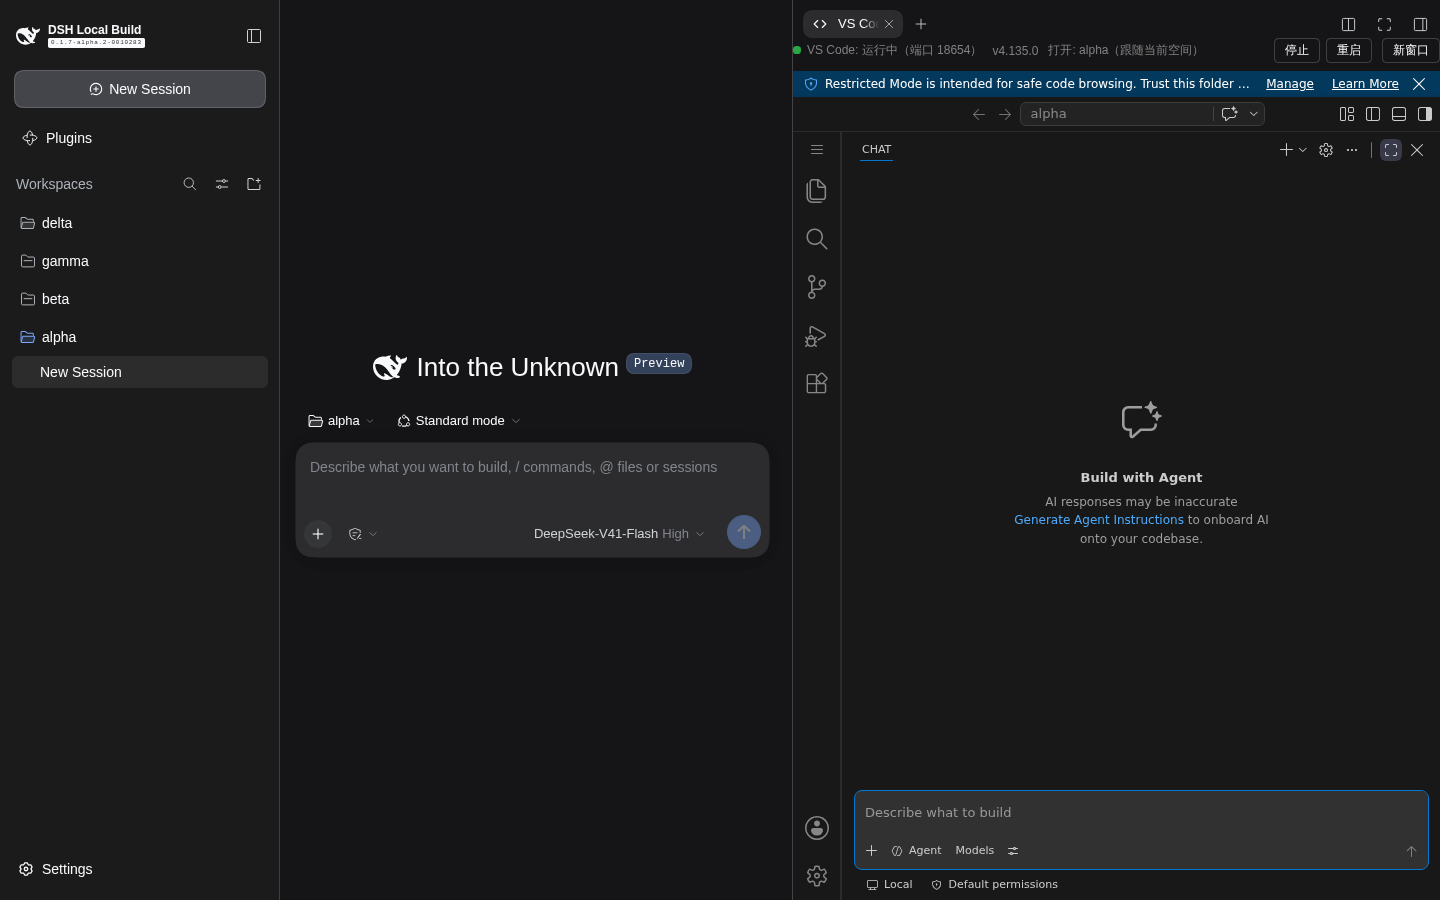
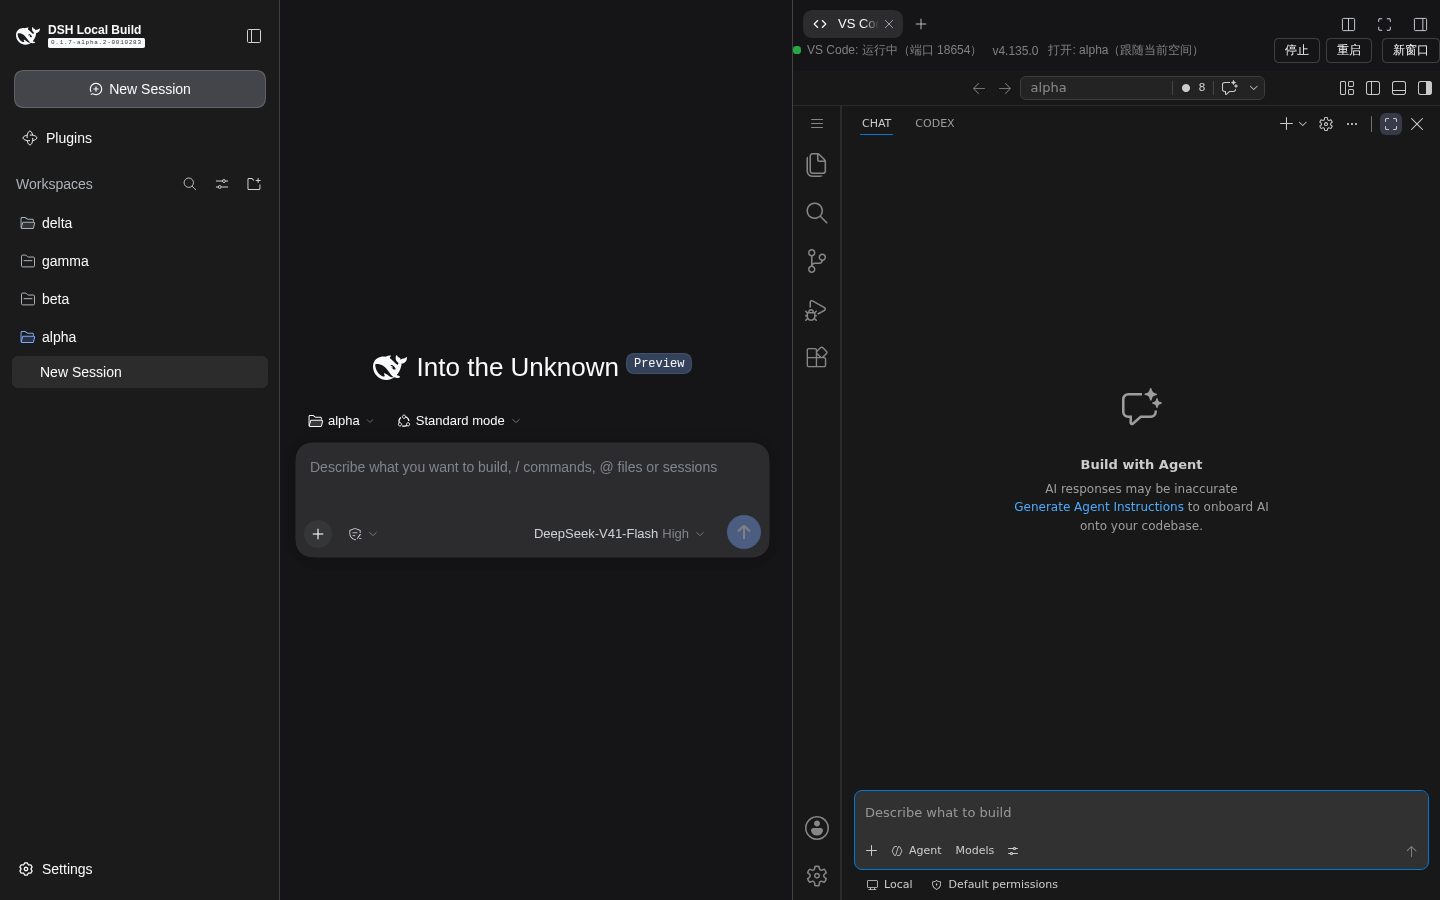
feat: 信任打开的目录（禁用 Restricted Mode，保证 Codex 等扩展可用）
- 宿主：trustWorkspace 配置（默认 true）；/dsh-vscode/layout 键组泛化——
  trustWorkspace!==false 时恒写 security.workspace.trust.enabled=false（键名已在
  4.135.0 安装树核实），focus 三键照旧随 {focus} 写/删；幂等+原子写不变
- 客户端：pushLayout 差值扩展为 focus+trust；设置页新增「信任打开的目录」勾选框
- e2e：新增 V1 信任断言（无 Restricted Mode 横幅 + 四键落盘）与 V4 trust 键保留
  断言，全量回归 21/21 通过；报告 demo/e2e-report-0.1.22.md

diff --git a/lib/client-registry.js b/lib/client-registry.js
@@ -302,13 +302,16 @@ window.__ModuleLoader__.load({
 			}
 
 			// —— 专注布局（0.1.21）：新开的 VS Code 默认只显示 Codex（副边栏最大化） ——
+			// —— 信任目录（0.1.22）：security.workspace.trust.enabled=false，禁用 Restricted Mode，
+			//     否则 Codex 等扩展在未信任目录下被禁用（信任开关取宿主 config.trustWorkspace）。
 			// 生效时机与主题一致：workbench 只在启动时读一次 user settings，因此落盘先于
 			// iframe 启动（bootInst 前置推送）；开关变化（设置页保存 / 状态轮询差值，含多页签
 			// 他端改动）对池内全部已加载实例收敛重载。注意：收敛只做重载、不追求把已打开
 			// 实例拉回专注——workspace 布局由 VS Code 自己按 workspace 持久化并接管
 			// （defaultVisibility 仅首次打开生效；用户解除最大化后保持其布局，不被强拉）。
 			let focusLayoutOn = true;
-			let lastFocusApplied = null;
+			let trustOn = true;
+			let lastPushedLayout = null;
 			function convergeLayout() {
 				for (const inst of Array.from(pool.values())) {
 					if (!inst.loaded || !inst.base) continue;
@@ -319,10 +322,10 @@ window.__ModuleLoader__.load({
 			const pushLayout = (opts) => {
 				const force = !!(opts && opts.force);
 				const booting = !!(opts && opts.booting);
-				const focus = focusLayoutOn;
-				if (!force && focus === lastFocusApplied) return null;
-				const p = api('/dsh-vscode/layout', { method: 'POST', body: JSON.stringify({ focus: focus }) }).then((r) => {
-					lastFocusApplied = focus;
+				const want = { focus: focusLayoutOn, trust: trustOn };
+				if (!force && lastPushedLayout && lastPushedLayout.focus === want.focus && lastPushedLayout.trust === want.trust) return null;
+				const p = api('/dsh-vscode/layout', { method: 'POST', body: JSON.stringify({ focus: want.focus }) }).then((r) => {
+					lastPushedLayout = want;
 					if (r && r.changed && !booting) convergeLayout();
 					return r;
 				}, () => null);
@@ -553,9 +556,10 @@ window.__ModuleLoader__.load({
 			const setValue = (v) => {
 				if (v && v.config) {
 					themeFollowOn = v.config.themeFollow !== false;
-					// 专注布局开关差值：配置变化（本页设置页或多页签他端）即推送，changed 才收敛重载
+					// 专注布局 / 信任目录 开关差值：配置变化（本页设置页或多页签他端）即推送，changed 才收敛重载
 					const fl = v.config.focusLayout !== false;
-					if (fl !== focusLayoutOn) { focusLayoutOn = fl; pushLayout(); }
+					const tw = v.config.trustWorkspace !== false;
+					if (fl !== focusLayoutOn || tw !== trustOn) { focusLayoutOn = fl; trustOn = tw; pushLayout(); }
 				}
 				if (v !== value) { value = v; subs.forEach((l) => l()); }
 			};
@@ -823,6 +827,7 @@ window.__ModuleLoader__.load({
 						autoStart: !!draft.autoStart,
 						themeFollow: draft.themeFollow !== false,
 						focusLayout: draft.focusLayout !== false,
+						trustWorkspace: draft.trustWorkspace !== false,
 						extraArgs: String(draft.extraArgsText || '').split(/\s+/).filter((x) => x.length > 0),
 					}).then(() => { setSaved('已保存'); pushTheme(); pushLayout(); return null; }).catch(() => {});
 				};
@@ -857,8 +862,9 @@ window.__ModuleLoader__.load({
 				field('会话打开时自动启动', React.createElement('input', { type: 'checkbox', checked: !!draft.autoStart, onChange: (e) => upd('autoStart', e.target.checked) })),
 				field('主题跟随 DSH', React.createElement('input', { type: 'checkbox', checked: draft.themeFollow !== false, onChange: (e) => upd('themeFollow', e.target.checked) })),
 				field('专注布局（新开的 VS Code 默认只显示 Codex）', React.createElement('input', { type: 'checkbox', checked: draft.focusLayout !== false, onChange: (e) => upd('focusLayout', e.target.checked) })),
+				field('信任打开的目录（关闭 Restricted Mode）', React.createElement('input', { type: 'checkbox', checked: draft.trustWorkspace !== false, onChange: (e) => upd('trustWorkspace', e.target.checked) })),
 				field('附加参数（空格分隔）', React.createElement('input', { className: 'dshvs-input', value: draft.extraArgsText || '', placeholder: '例如 --disable-get-started-banner', onChange: (e) => upd('extraArgsText', e.target.value) })),
-					React.createElement('div', { className: 'dshvs-kv' }, '「打开目录跟随当前空间」开启时，VS Code 打开当前会话所在空间（会话 cwd）的目录；关闭或会话无目录时使用「工作区路径」。「实例池上限」按 workspace 缓存 VS Code 实例（默认 2）：同空间会话互切不重载，跨空间切换秒切；池满时弹窗选择要踢出的实例。「专注布局」开启时新打开的 VS Code 默认只显示右侧 Codex（主边栏/面板/编辑器区收起，活动栏保留），状态栏与欢迎页隐藏；在 VS Code 内解除最大化/打开边栏即恢复完整布局且不被强拉，再点副边栏的「最大化」按钮可回到专注。改端口/目录/来源后需重启 code-server 生效；配置持久化在工作区 .dsh/vscode-bridge/config.json。'),
+					React.createElement('div', { className: 'dshvs-kv' }, '「打开目录跟随当前空间」开启时，VS Code 打开当前会话所在空间（会话 cwd）的目录；关闭或会话无目录时使用「工作区路径」。「实例池上限」按 workspace 缓存 VS Code 实例（默认 2）：同空间会话互切不重载，跨空间切换秒切；池满时弹窗选择要踢出的实例。「专注布局」开启时新打开的 VS Code 默认只显示右侧 Codex（主边栏/面板/编辑器区收起，活动栏保留），状态栏与欢迎页隐藏；在 VS Code 内解除最大化/打开边栏即恢复完整布局且不被强拉，再点副边栏的「最大化」按钮可回到专注。「信任打开的目录」写入 security.workspace.trust.enabled=false 禁用 Restricted Mode（否则 Codex 等扩展在未信任目录下被禁用）；桥只会打开本机 DSH 空间目录。改端口/目录/来源后需重启 code-server 生效；配置持久化在工作区 .dsh/vscode-bridge/config.json。'),
 					(status && (status.error || status.lastError)) ? React.createElement('pre', { className: 'dshvs-diag' }, String(status.error || status.lastError)) : null,
 				);
 			}

diff --git a/lib/client.js b/lib/client.js
@@ -302,13 +302,16 @@ window.__ModuleLoader__.load({
 			}
 
 			// —— 专注布局（0.1.21）：新开的 VS Code 默认只显示 Codex（副边栏最大化） ——
+			// —— 信任目录（0.1.22）：security.workspace.trust.enabled=false，禁用 Restricted Mode，
+			//     否则 Codex 等扩展在未信任目录下被禁用（信任开关取宿主 config.trustWorkspace）。
 			// 生效时机与主题一致：workbench 只在启动时读一次 user settings，因此落盘先于
 			// iframe 启动（bootInst 前置推送）；开关变化（设置页保存 / 状态轮询差值，含多页签
 			// 他端改动）对池内全部已加载实例收敛重载。注意：收敛只做重载、不追求把已打开
 			// 实例拉回专注——workspace 布局由 VS Code 自己按 workspace 持久化并接管
 			// （defaultVisibility 仅首次打开生效；用户解除最大化后保持其布局，不被强拉）。
 			let focusLayoutOn = true;
-			let lastFocusApplied = null;
+			let trustOn = true;
+			let lastPushedLayout = null;
 			function convergeLayout() {
 				for (const inst of Array.from(pool.values())) {
 					if (!inst.loaded || !inst.base) continue;
@@ -319,10 +322,10 @@ window.__ModuleLoader__.load({
 			const pushLayout = (opts) => {
 				const force = !!(opts && opts.force);
 				const booting = !!(opts && opts.booting);
-				const focus = focusLayoutOn;
-				if (!force && focus === lastFocusApplied) return null;
-				const p = api('/dsh-vscode/layout', { method: 'POST', body: JSON.stringify({ focus: focus }) }).then((r) => {
-					lastFocusApplied = focus;
+				const want = { focus: focusLayoutOn, trust: trustOn };
+				if (!force && lastPushedLayout && lastPushedLayout.focus === want.focus && lastPushedLayout.trust === want.trust) return null;
+				const p = api('/dsh-vscode/layout', { method: 'POST', body: JSON.stringify({ focus: want.focus }) }).then((r) => {
+					lastPushedLayout = want;
 					if (r && r.changed && !booting) convergeLayout();
 					return r;
 				}, () => null);
@@ -553,9 +556,10 @@ window.__ModuleLoader__.load({
 			const setValue = (v) => {
 				if (v && v.config) {
 					themeFollowOn = v.config.themeFollow !== false;
-					// 专注布局开关差值：配置变化（本页设置页或多页签他端）即推送，changed 才收敛重载
+					// 专注布局 / 信任目录 开关差值：配置变化（本页设置页或多页签他端）即推送，changed 才收敛重载
 					const fl = v.config.focusLayout !== false;
-					if (fl !== focusLayoutOn) { focusLayoutOn = fl; pushLayout(); }
+					const tw = v.config.trustWorkspace !== false;
+					if (fl !== focusLayoutOn || tw !== trustOn) { focusLayoutOn = fl; trustOn = tw; pushLayout(); }
 				}
 				if (v !== value) { value = v; subs.forEach((l) => l()); }
 			};
@@ -823,6 +827,7 @@ window.__ModuleLoader__.load({
 						autoStart: !!draft.autoStart,
 						themeFollow: draft.themeFollow !== false,
 						focusLayout: draft.focusLayout !== false,
+						trustWorkspace: draft.trustWorkspace !== false,
 						extraArgs: String(draft.extraArgsText || '').split(/\s+/).filter((x) => x.length > 0),
 					}).then(() => { setSaved('已保存'); pushTheme(); pushLayout(); return null; }).catch(() => {});
 				};
@@ -857,8 +862,9 @@ window.__ModuleLoader__.load({
 				field('会话打开时自动启动', React.createElement('input', { type: 'checkbox', checked: !!draft.autoStart, onChange: (e) => upd('autoStart', e.target.checked) })),
 				field('主题跟随 DSH', React.createElement('input', { type: 'checkbox', checked: draft.themeFollow !== false, onChange: (e) => upd('themeFollow', e.target.checked) })),
 				field('专注布局（新开的 VS Code 默认只显示 Codex）', React.createElement('input', { type: 'checkbox', checked: draft.focusLayout !== false, onChange: (e) => upd('focusLayout', e.target.checked) })),
+				field('信任打开的目录（关闭 Restricted Mode）', React.createElement('input', { type: 'checkbox', checked: draft.trustWorkspace !== false, onChange: (e) => upd('trustWorkspace', e.target.checked) })),
 				field('附加参数（空格分隔）', React.createElement('input', { className: 'dshvs-input', value: draft.extraArgsText || '', placeholder: '例如 --disable-get-started-banner', onChange: (e) => upd('extraArgsText', e.target.value) })),
-					React.createElement('div', { className: 'dshvs-kv' }, '「打开目录跟随当前空间」开启时，VS Code 打开当前会话所在空间（会话 cwd）的目录；关闭或会话无目录时使用「工作区路径」。「实例池上限」按 workspace 缓存 VS Code 实例（默认 2）：同空间会话互切不重载，跨空间切换秒切；池满时弹窗选择要踢出的实例。「专注布局」开启时新打开的 VS Code 默认只显示右侧 Codex（主边栏/面板/编辑器区收起，活动栏保留），状态栏与欢迎页隐藏；在 VS Code 内解除最大化/打开边栏即恢复完整布局且不被强拉，再点副边栏的「最大化」按钮可回到专注。改端口/目录/来源后需重启 code-server 生效；配置持久化在工作区 .dsh/vscode-bridge/config.json。'),
+					React.createElement('div', { className: 'dshvs-kv' }, '「打开目录跟随当前空间」开启时，VS Code 打开当前会话所在空间（会话 cwd）的目录；关闭或会话无目录时使用「工作区路径」。「实例池上限」按 workspace 缓存 VS Code 实例（默认 2）：同空间会话互切不重载，跨空间切换秒切；池满时弹窗选择要踢出的实例。「专注布局」开启时新打开的 VS Code 默认只显示右侧 Codex（主边栏/面板/编辑器区收起，活动栏保留），状态栏与欢迎页隐藏；在 VS Code 内解除最大化/打开边栏即恢复完整布局且不被强拉，再点副边栏的「最大化」按钮可回到专注。「信任打开的目录」写入 security.workspace.trust.enabled=false 禁用 Restricted Mode（否则 Codex 等扩展在未信任目录下被禁用）；桥只会打开本机 DSH 空间目录。改端口/目录/来源后需重启 code-server 生效；配置持久化在工作区 .dsh/vscode-bridge/config.json。'),
 					(status && (status.error || status.lastError)) ? React.createElement('pre', { className: 'dshvs-diag' }, String(status.error || status.lastError)) : null,
 				);
 			}

diff --git a/lib/index.js b/lib/index.js
@@ -45,6 +45,10 @@ export function apply(ctx) {
     // 进入——主边栏/面板/编辑器区自动收起，只显示右侧 Codex；状态栏与欢迎页一并隐藏，活动栏保留。
     // 已打开过的 workspace 由 VS Code 自己的持久化布局接管（用户解除最大化后保持其布局，不被强拉）。
     focusLayout: true,
+    // 信任打开的目录（0.1.22）：写入 security.workspace.trust.enabled=false，禁用 Restricted Mode
+    // （工作区信任横幅），否则 Codex 等扩展在未信任目录下被禁用。桥只会打开本机 DSH 空间的目录，
+    // 属于用户自选的可信路径；关闭此开关则移除该键、恢复 VS Code 默认信任行为。
+    trustWorkspace: true,
     // 打开目录是否跟随「当前会话所在 DSH 空间」的目录（client 半区上报会话 cwd）。
     // 关闭后固定使用 workspacePath。
     workspaceFollow: true,
@@ -482,6 +486,7 @@ export function apply(ctx) {
     if (typeof next.customBinaryPath !== 'string') next.customBinaryPath = ''
     if (typeof next.themeFollow !== 'boolean') next.themeFollow = true
     if (typeof next.focusLayout !== 'boolean') next.focusLayout = true
+    if (typeof next.trustWorkspace !== 'boolean') next.trustWorkspace = true
     if (typeof next.workspaceFollow !== 'boolean') next.workspaceFollow = true
     // 实例池上限：UI 数字字段用夹取而非抛错（避免保存被拒）；非法值回默认 2，范围 1-8。
     const ips = Math.floor(Number(next.instancePoolSize))
@@ -597,13 +602,17 @@ export function apply(ctx) {
       if (url === '/dsh-vscode/layout' && req.method === 'POST') {
         const body = await readBody(req)
         readConfig()
-        // focus 必须显式给布尔：缺参视为非法请求（返回 400），防止误清三键
+        // focus 必须显式给布尔：缺参视为非法请求（返回 400），防止误清三键。
+        // 信任开关取宿主 config.trustWorkspace（单一事实来源），客户端无需上报。
         const focus = body ? body.focus : undefined
         if (typeof focus !== 'boolean') return jsonOf(res, 400, { error: 'focus 必须是 boolean' })
-        // 专注布局（0.1.21）：把三键写入/移除出 code-server 的 user settings.json。
+        // 专注布局（0.1.21）+ 信任目录（0.1.22）：把键组写入/移除出 code-server 的 user settings.json。
         // 与主题同款约束：workbench 只在启动时读一次 user settings，落盘先于 iframe 启动；
         // 幂等比较（无差异不写盘），返回 changed 供 client 决定是否收敛重载。
-        // 三键语义（VS Code 1.135）：
+        // 键组语义（VS Code 1.135，均已在安装树 out/ 中核实存在）：
+        //   security.workspace.trust.enabled=false —— trustWorkspace!==false 时恒写：禁用
+        //     Restricted Mode（信任横幅），否则 Codex 等扩展在未信任目录下被禁用；
+        //     trustWorkspace=false 时移除、恢复 VS Code 默认信任行为；
         //   secondarySideBar.defaultVisibility=maximized —— 仅 workspace 首次打开时生效，
         //     应用后 auxiliaryBar.wasLastMaximized 等布局状态按 workspace 持久化：
         //     新开的 folder 进专注；用户解除最大化后保持其布局，不被强拉；
@@ -616,13 +625,18 @@ export function apply(ctx) {
           'workbench.statusBar.visible': false,
           'workbench.startupEditor': 'none',
         }
+        const trust = config.trustWorkspace !== false
+        const desired = {}
+        if (trust) desired['security.workspace.trust.enabled'] = false
+        if (focus) for (const k of Object.keys(focusKeys)) desired[k] = focusKeys[k]
+        const candidateKeys = Object.keys(Object.assign({}, focusKeys, { 'security.workspace.trust.enabled': false }))
         const settingsPath = config.dataDir + '/user-data/User/settings.json'
         let cur = {}
         try { cur = JSON.parse(readFileSync(settingsPath, 'utf8')) } catch (e) { cur = {} }
         let changed = false
-        for (const k of Object.keys(focusKeys)) {
-          if (focus) {
-            if (cur[k] !== focusKeys[k]) { cur[k] = focusKeys[k]; changed = true }
+        for (const k of candidateKeys) {
+          if (Object.prototype.hasOwnProperty.call(desired, k)) {
+            if (cur[k] !== desired[k]) { cur[k] = desired[k]; changed = true }
           } else if (Object.prototype.hasOwnProperty.call(cur, k)) {
             delete cur[k]
             changed = true
@@ -634,7 +648,7 @@ export function apply(ctx) {
           writeFileSync(tmp, JSON.stringify(cur, null, 2) + '\n')
           renameSync(tmp, settingsPath)
         }
-        return jsonOf(res, 200, { ok: true, focus, changed })
+        return jsonOf(res, 200, { ok: true, focus, trust, changed })
       }
       return jsonOf(res, 404, { error: 'unknown route: ' + url })
     } catch (e) {

diff --git a/demo/e2e-report-0.1.22.md b/demo/e2e-report-0.1.22.md
@@ -1,0 +1,64 @@
+# dsh-vscode-bridge 0.1.22 e2e 验证报告 —— 信任打开的目录（禁用 Restricted Mode）+ 专注布局回归
+
+- **被测版本**：`dsh-vscode-bridge@0.1.22`（`feat/focus-layout` 分支；在 0.1.21 专注布局之上新增信任目录能力，
+  并对专注布局全量回归）
+- **验证环境**（按工作区规则 1，全程隔离调试实例，未触碰 3080 主实例与其 code-server 18644）：
+  - `DSH_HOME=/tmp/dsh-dev-home`、`DSH_VSCODE_BRIDGE_WORKSPACE=/tmp/dsh-dev-ws`、
+    `dsh web --profile web --no-open --port 3190`（code-server 18654）
+  - 同装 `dsh-better-sidebar@0.21.0`；code-server 安装树与扩展（openai.chatgpt / rust-analyzer）从主实例只读复制
+  - 测试空间：`/tmp/dsh-dev-ws/spaces/{alpha,beta,gamma,delta}`；e2e 开头自动重置（停 code-server →
+    清 user-data → config 复位 focusLayout/trustWorkspace=true、池上限 8 → ensure 启动）
+- **驱动方式**：Playwright 真实浏览器 + iframe 内 workbench 布局探针（根容器类名 + `.part.*` 几何）+
+  settings.json 落盘内容断言 + workbench 文本断言（Restricted Mode 横幅存在性）。
+- **结果**：**21/21 断言通过**（原始记录：[e2e-results-0.1.22.json](./e2e-results-0.1.22.json)）
+
+## 0.1.22 新增实现
+
+- 宿主（`lib/index.js`）：配置项 `trustWorkspace`（默认 true，持久化 config.json）；`POST /dsh-vscode/layout`
+  键组泛化——`trustWorkspace !== false` 时**恒写** `security.workspace.trust.enabled: false`（键名已在
+  code-server 4.135.0 安装树 `lib/vscode/out/` 中核实存在）；focus 三键（0.1.21）照旧随 `{focus}` 写/删；
+  幂等比较 + tmp/rename 原子写；focus 缺参/非布尔返回 400。
+- 客户端（`lib/client-registry.js`）：`pushLayout` 差值从「仅 focus」扩展为「focus + trust」；
+  设置页新增「信任打开的目录（关闭 Restricted Mode）」勾选框（默认勾选）。
+- **动机**：Restricted Mode（工作区信任横幅「Restricted Mode is intended for safe code browsing…」）下
+  **Codex 等扩展被禁用**；桥只会打开本机 DSH 空间目录（用户自选路径），默认信任是合理基线。
+  关闭开关则移除该键、恢复 VS Code 默认信任行为。
+
+## 验证点与现场证据
+
+| # | 验证点 | 结果 |
+| --- | --- | --- |
+| V1 | 全新空间 alpha 首开：主边栏/编辑器区/面板收起、状态栏隐藏、**活动栏保留**、副边栏最大化占满 | 6/6 PASS |
+| V1 | **无 Restricted Mode 信任横幅**（frame 文本断言 absent）+ **四键落盘**（三键 + `security.workspace.trust.enabled=false`） | 2/2 PASS |
+| V2 | 显式打开主边栏 → 解除最大化（编辑器区还原）；**重载后保留用户布局**（不被强拉）；状态栏仍隐藏 | 3/3 PASS |
+| V3 | 全新空间 beta → 新实例自动进专注 | PASS |
+| V4 | 关闭「专注布局」→ 收敛重载：alpha 状态栏恢复且保留用户布局；beta **保持专注**（wasLastMaximized 已持久化）；**focus 三键移除、trust 键保留**；gamma 全新空间不自动最大化、状态栏可见 | 6/6 PASS |
+| V5 | 重新开启 → delta 全新空间再次进专注、四键重新落盘 | 2/2 PASS |
+| V6 | 设置页「专注布局」勾选框存在且状态与配置一致（只读检查） | PASS |
+
+首开即专注、无信任横幅、Codex 可用（本次 CHAT/CODEX 两个容器页签均正常呈现）：
+
+![01 alpha 首开即专注且无信任横幅](./01-focus-alpha.png)
+
+显式打开主边栏解除最大化（重载后保留该布局）：
+
+![04 重载后保留用户布局](./04-reload-keeps-user-layout.png)
+
+## 复跑方式
+
+```bash
+cd <本插件目录> && ln -sfn ../DSH-better-sidebar/node_modules node_modules
+DSH_URL='http://127.0.0.1:3190/?token=<一次性启动 token>' node demo/e2e-focus-layout.mjs
+# 隔离实例启动：
+cd <dsh 仓库> && DSH_HOME=/tmp/dsh-dev-home DSH_VSCODE_BRIDGE_WORKSPACE=/tmp/dsh-dev-ws \
+  node apps/cli/lib/bin.js --profile web --no-open --port 3190
+```
+
+## 说明与边界
+
+- 0.1.21 的验证记录见 [e2e-report-0.1.21.md](./e2e-report-0.1.21.md)；本轮 01–09 截图为 0.1.22 重跑
+  产物（覆盖同名文件，均为无横幅版本）。
+- `security.workspace.trust.enabled: false` 会全局禁用信任门（对 code-server 内手动打开的任意目录同样生效）；
+  如需恢复，在设置页关闭「信任打开的目录」并重载实例即可。
+- 专注布局的既有边界（本功能启用前已打开过的 folder 需点一次副边栏「最大化」持久化；新空间首开默认
+  容器可能非 CODEX，点一次标签即持久化）与 0.1.21 相同，未变化。
